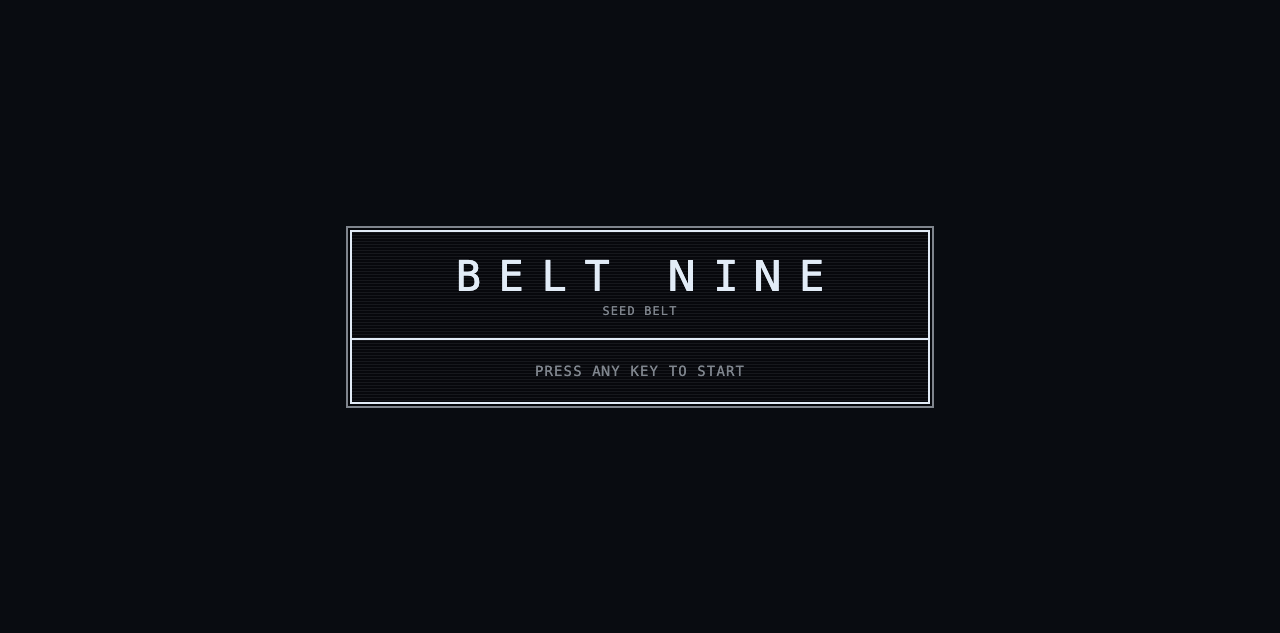
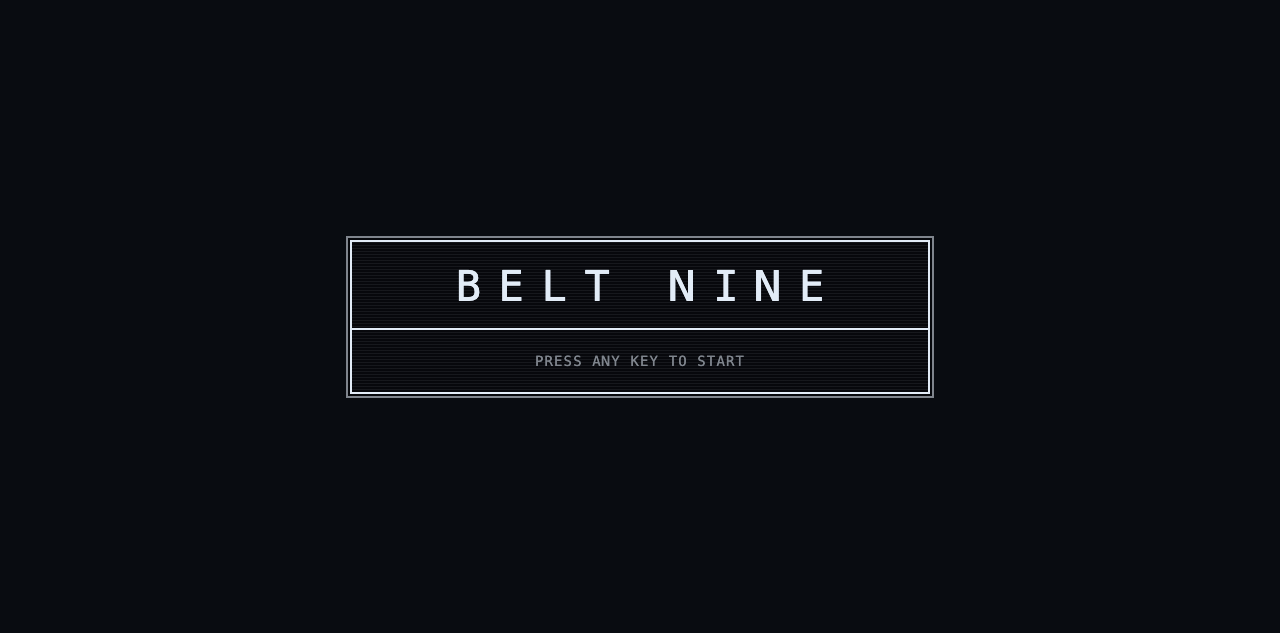
Belt Nine draws two ways now, and the title card has no seed on it
The ASCII renderer was retired in the game, so the pages that describe
the game as it is stop advertising it: the carousel drops that shot and
the copy says two. The blog post keeps its own — it was true the day it
was written — and gets a dated note at the top saying what happened.

The title card is retaken because the belt is named after the clock now:
the old shot was captured with ?seed=belt in the URL and printed SEED
BELT under the wordmark, which is what you get when you name a belt
yourself and not what anybody arriving at the page sees.

Claude-Session: https://claude.ai/code/session_01Dho9Xbw8hv4FTUmtxK3iqp

Changed region(s): [[0.2812, 0.4803, 0.7188, 0.6603], [0.25, 0.3302, 0.75, 0.4803]]

diff --git a/index.html b/index.html
@@ -81,15 +81,14 @@
             nothing is ever loaded.<br>
             Shoot a rock until it comes apart, fill your hold, fly it back to the mothership. Up to
             four pilots on one screen, and no network anywhere.<br>
-            The same scene can be drawn three ways — dithered pixels, glowing wireframe, or characters
-            on a grid — and you can switch mid-flight. I wrote about how that works
+            The same scene can be drawn two ways — glowing wireframe or dithered pixels — and you can
+            switch mid-flight. I wrote about how that works (back when there were three of them)
             <a href="blog/2026_08_04_one_scene_three_renderers.html">here</a>.
 
             <a href="beltnine/index.html" class="noprint">
                 <div class="previews">
                     <img src="beltnine/vector.png" alt="BELT NINE on the vector theme: rocks as glowing wireframes">
                     <img src="beltnine/pixel.png" alt="BELT NINE on the pixel theme: dithered rocks and a green hauler">
-                    <img src="beltnine/ascii.png" alt="BELT NINE on the ASCII theme: the mothership drawn in characters">
                     <img src="beltnine/menu.png" alt="The BELT NINE title screen">
                     <img src="beltnine/death.png" alt="The hull breach card at the end of a run">
                 </div>

diff --git a/beltnine/index.html b/beltnine/index.html
@@ -534,7 +534,6 @@
                     <div class="carousel">
                         <img src="vector.png" alt="BELT NINE drawn as glowing wireframe, a bolt in the air">
                         <img src="pixel.png" alt="BELT NINE drawn as dithered pixels, quarrying a rock">
-                        <img src="ascii.png" alt="BELT NINE drawn as characters, the mothership dead ahead">
                         <img src="menu.png" alt="The BELT NINE title screen">
                         <img src="death.png" alt="The HULL BREACH card at the end of a run">
                     </div>
@@ -564,8 +563,8 @@
                 <p class="say">
                     The belt is grown from a seed and every note of the soundtrack is played by a
                     sequencer, so there isn't one asset in the build — no sprites, no models, no audio
-                    files. It's vanilla JavaScript and a canvas, with no runtime libraries and three
-                    renderers behind one interface: pixels, wireframe or characters, swappable
+                    files. It's vanilla JavaScript and a canvas, with no runtime libraries and two
+                    renderers behind one interface: wireframe or dithered pixels, swappable
                     mid-flight.
                 </p>
                 <ul class="rows">

diff --git a/blog/2026_08_04_one_scene_three_renderers.html b/blog/2026_08_04_one_scene_three_renderers.html
@@ -23,6 +23,15 @@
 
     <section>
         <p>
+            <em>Update, August 2026: there are two of them now. The ASCII one was a good joke and a
+            real renderer, and it was also a third answer to every question about how a thing gets
+            drawn — so it was retired rather than carried. The rest of this post is left exactly as
+            it was written, characters and all.</em>
+        </p>
+    </section>
+
+    <section>
+        <p>
             I've been building a game called BELT NINE. It's first person, you fly around an asteroid
             belt, shoot rocks until they come apart, fill your hold and take it home to the
             mothership. Vanilla JavaScript, no engine, no libraries, and no assets at all — the whole
